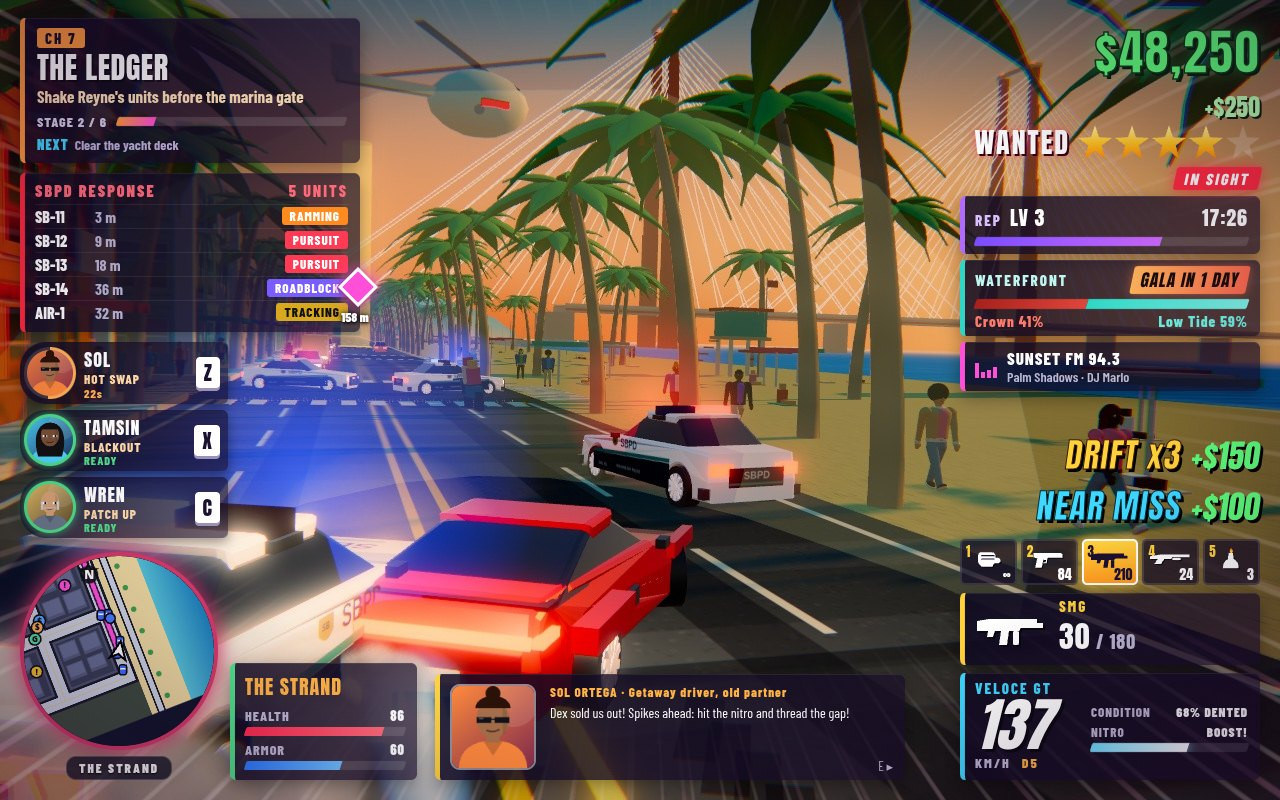
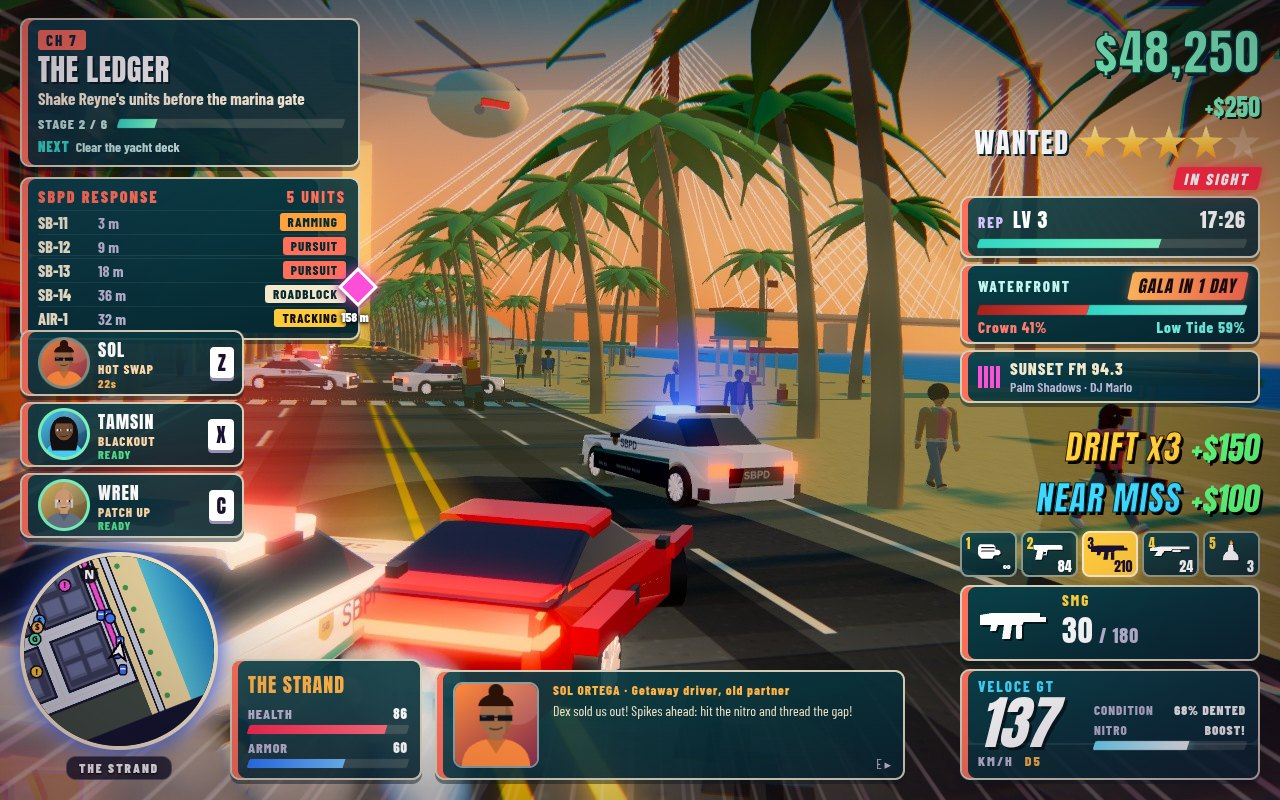
Tide Chart HUD language: one card system (deep-teal glass, 2 px cream keyline, coral accent stripe, 10 px radius, cream labels, mint money, gold stars) for HUD cards, crew stack, weapon bar, menus, Crew & Chapters, garage, shop, pause, map and title

diff --git a/game/styles/hud.css b/game/styles/hud.css
@@ -126,3 +126,25 @@
 .wseg b { position: absolute; left: 6px; top: 2px; font: 15px var(--big); color: #ffd23c; } .wseg.on b { color: #1a1030; }
 .wseg span { display: block; font: 15px/1 var(--big); color: #fff; } .wseg.on span { color: #1a1030; }
 .wcenter { position: absolute; left: -60px; top: -22px; width: 120px; text-align: center; } .wcenter b { display: block; font: 24px var(--big); color: #fff; } .wcenter span { font-size: 12px; font-weight: 800; letter-spacing: 1px; color: #ffd9a8; }
+
+/* ---- TIDE CHART card system: one look for every HUD card and menu panel ----
+   deep-teal glass, 2 px cream keyline, coral accent stripe, 10 px radius, cream labels, condensed display numbers,
+   money in mint, stars in gold. menus.css applies the same tokens to the menus, map, garage, shop and pause. */
+:root { --tc-glass: linear-gradient(165deg, rgba(10, 64, 72, 0.9), rgba(5, 36, 46, 0.88)); --tc-cream: #f4e8cc; --tc-coral: #ff6f59; --tc-mint: #7dffc4; --tc-gold: #ffc93c; --tc-teal: #2fd6c4; --tc-ink: #062a32; }
+#hud .card, .crewc { background: var(--tc-glass); border: 2px solid rgba(244, 232, 204, 0.85); border-radius: 10px; box-shadow: inset 6px 0 0 var(--tc-coral), 0 4px 0 rgba(4, 24, 30, 0.45); padding-left: 16px; }
+#hud .card[class*='acc-'], #hud .card { --acc: var(--tc-coral); }
+#hud, #hud .card { color: var(--tc-cream); }
+#hud .chap { background: var(--tc-coral); color: var(--tc-ink); }
+#mObj { color: #fff3dc; } #mNext, .mstage { color: #bfe2dc; } #mNext b { color: var(--tc-teal); }
+#mBar, #respBar { background: linear-gradient(90deg, var(--tc-teal), var(--tc-mint)); }
+#hud .bar { background: rgba(244, 232, 204, 0.16); }
+#policeCard .hdr { color: var(--tc-coral); }
+.tag { background: var(--tc-coral); color: var(--tc-ink); } .tag.RAMMING { background: #ffa23c; } .tag.ROADBLOCK { background: #f4e8cc; } .tag.TRACKING { background: var(--tc-gold); }
+#money { color: var(--tc-mint); -webkit-text-stroke: 1.5px #053a2c; text-shadow: 3px 3px 0 #04261e; }
+#moneyDelta { color: var(--tc-mint); }
+#stars i.on { background: linear-gradient(180deg, #fff2a8, var(--tc-gold) 55%, #ff9a1c); }
+.wlab { text-shadow: 2px 2px 0 #04262e; }
+.wt { background: var(--tc-glass); border: 2px solid rgba(244, 232, 204, 0.55); border-radius: 8px; }
+.wt.sel { background: var(--tc-gold); border-color: var(--tc-cream); }
+.crewc .ring { background: rgba(244, 232, 204, 0.5); } .crewc.ready .ring { background: var(--tc-mint); box-shadow: none; }
+#minimap, #mapWrap { border-color: var(--tc-cream) !important; }

diff --git a/game/styles/menus.css b/game/styles/menus.css
@@ -72,3 +72,16 @@
 .pips i { display: inline-block; width: 14px; height: 8px; margin-left: 3px; background: rgba(255, 255, 255, 0.2); transform: skewX(-18deg); } .pips i.on { background: #ffb35a; } .maxed { color: #4fe08a; font-weight: 800; letter-spacing: 1px; }
 .swatches { display: flex; gap: 6px; } #garageList .swatches button { width: 30px; height: 30px; padding: 0; border-radius: 50%; border: 2px solid #fff; }
 .sub .lowtide { font-size: 22px; letter-spacing: 4px; color: #2fd6c4; margin-right: 10px; text-shadow: 2px 2px 0 #08262c; }
+
+/* ---- TIDE CHART card system (tokens in hud.css): menus, Crew & Chapters, garage, shop, pause and map ---- */
+.panel, .mapframe, .ccard, .act, .ccturf { background: var(--tc-glass) !important; border: 2px solid rgba(244, 232, 204, 0.85) !important; border-radius: 10px !important; box-shadow: inset 6px 0 0 var(--tc-coral), 0 6px 0 rgba(4, 24, 30, 0.45); color: var(--tc-cream); }
+#pause, #controls, #settings, #shop, #dead, #garage { background: rgba(3, 30, 38, 0.66); }
+#cityMap { background: radial-gradient(ellipse at 30% 20%, #0f5a64, #032028); }
+#crew { background: linear-gradient(180deg, rgba(4, 40, 48, 0.7), rgba(4, 30, 38, 0.45) 45%, rgba(3, 22, 30, 0.8)); }
+.menu button, .panel button { background: var(--tc-glass); border: 2px solid rgba(244, 232, 204, 0.7); border-radius: 10px; color: var(--tc-cream); }
+.menu button:hover, .panel button:hover, #title .menu button:first-child, .slotbtns button:hover:not(:disabled) { background: linear-gradient(90deg, var(--tc-coral), #ffa84a); color: var(--tc-ink); border-color: var(--tc-cream); }
+.chrow.done i { background: var(--tc-mint); } .chrow.cur { background: linear-gradient(90deg, rgba(255, 111, 89, 0.3), transparent); }
+.ccturf em { background: linear-gradient(90deg, var(--tc-gold), var(--tc-coral)); }
+#title { background: linear-gradient(90deg, rgba(3, 40, 48, 0.82) 0%, rgba(3, 40, 48, 0.45) 40%, transparent 70%); }
+#title h1.logo .l1 { background-image: linear-gradient(180deg, #fff6d8 0%, #ffd06a 40%, #ff8a4a 70%, #ff6f59 100%); filter: drop-shadow(5px 6px 0 #0a4a54) drop-shadow(10px 12px 0 #032028); }
+#title h1.logo .l2 { background-image: linear-gradient(180deg, #f0fffa 0%, #7dffe0 40%, #2fd6c4 70%, #138a96 100%); filter: drop-shadow(5px 6px 0 #ff6f59) drop-shadow(10px 12px 0 #032028); }
